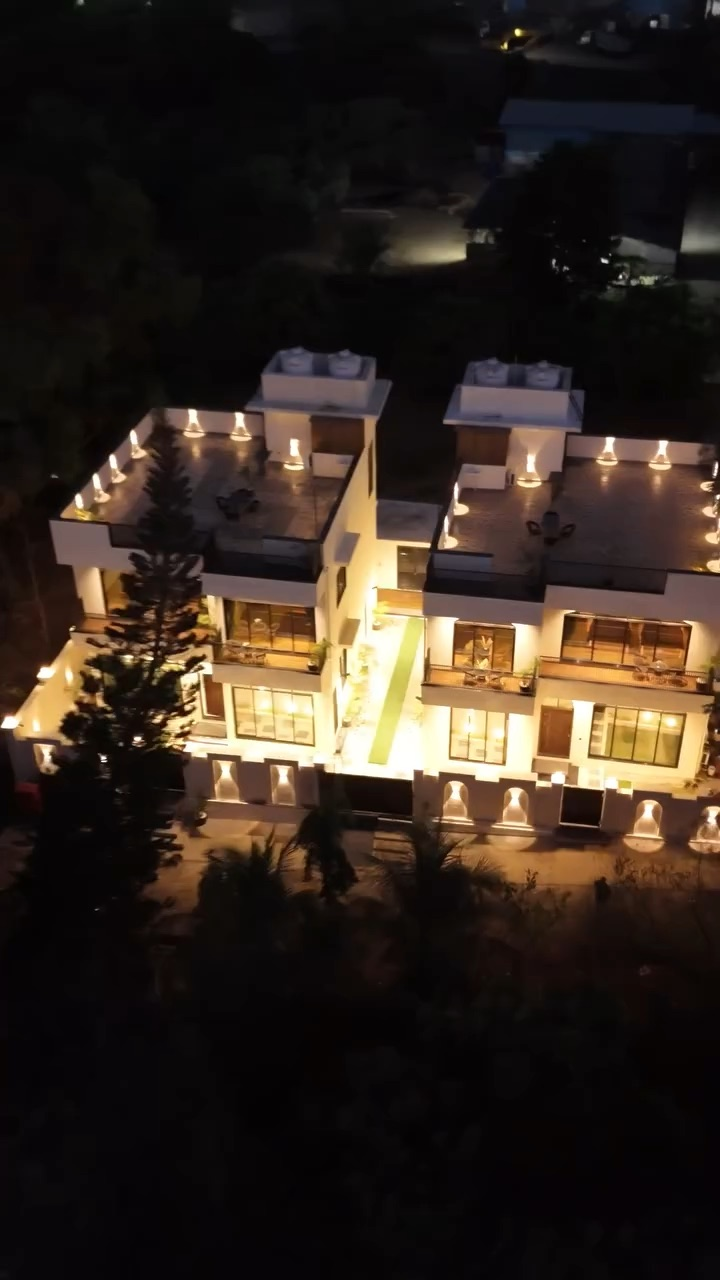
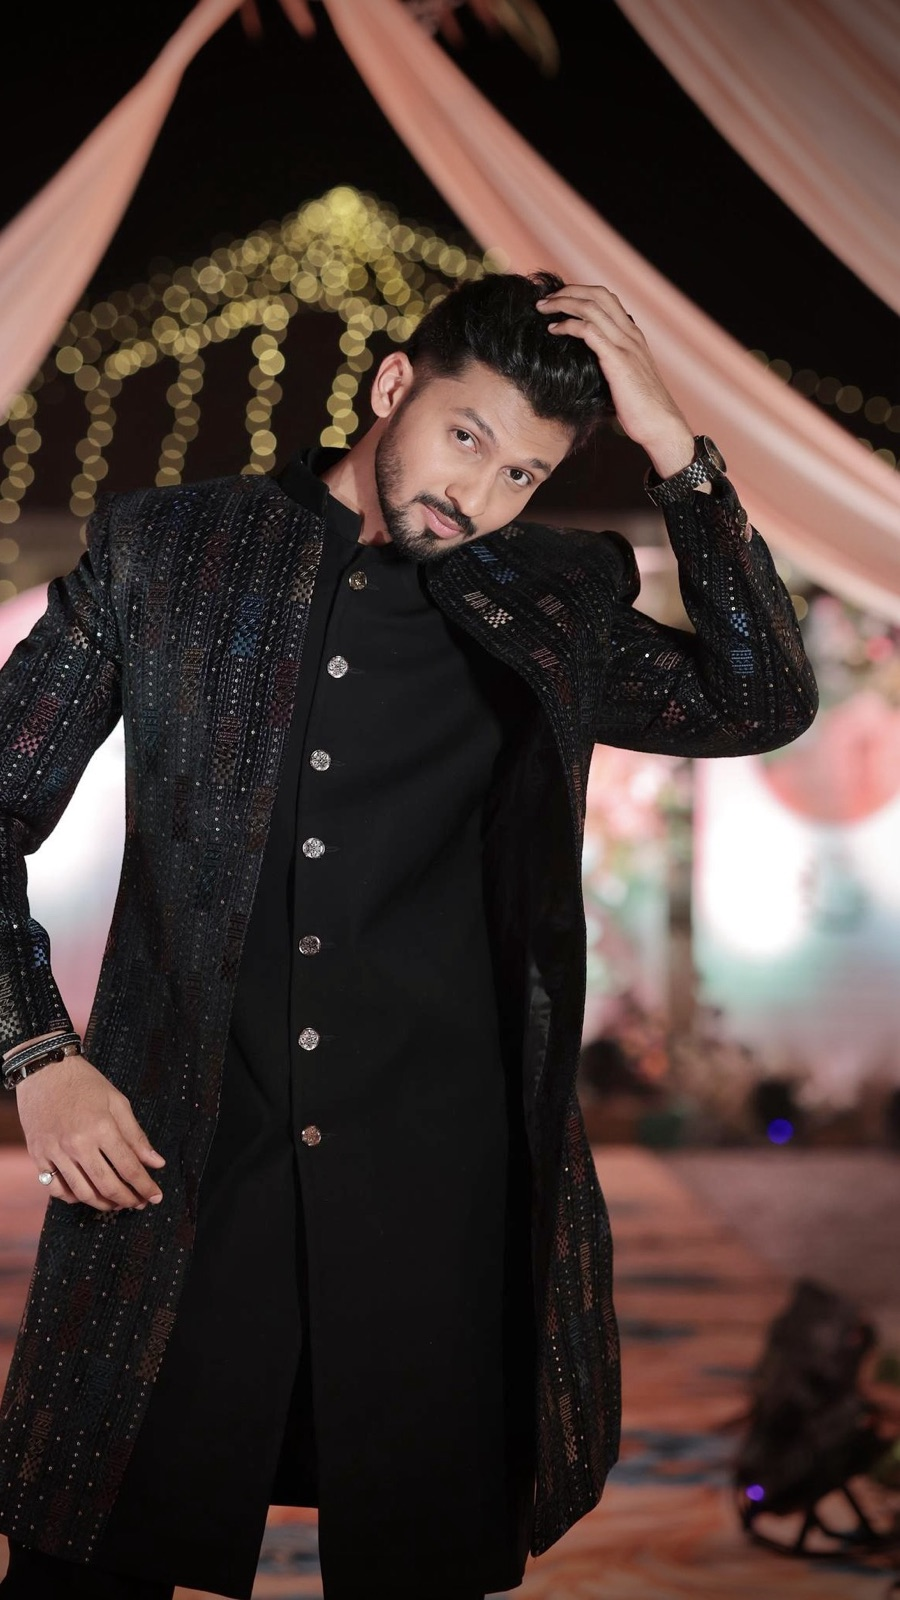
done with changes

diff --git a/src/app/about-us/FounderVideo.tsx b/src/app/about-us/FounderVideo.tsx
@@ -1,21 +1,44 @@
 'use client';
 
-import { useRef, useState } from 'react';
+import { useEffect, useRef, useState, type CSSProperties, type KeyboardEvent } from 'react';
 import styles from './page.module.css';
 
 type Props = { src: string; poster: string; label: string };
+
+const SKIP_SECONDS = 10;
 
 const PlayIcon = () => <svg viewBox="0 0 24 24" aria-hidden="true"><path d="M8 5.5v13l10.5-6.5z" /></svg>;
 const PauseIcon = () => <svg viewBox="0 0 24 24" aria-hidden="true"><path d="M8 5v14M16 5v14" /></svg>;
 const MutedIcon = () => <svg viewBox="0 0 24 24" aria-hidden="true"><path d="M4 9h4l5-4v14l-5-4H4z" /><path d="m17 9 4 6m0-6-4 6" /></svg>;
 const SoundIcon = () => <svg viewBox="0 0 24 24" aria-hidden="true"><path d="M4 9h4l5-4v14l-5-4H4z" /><path d="M17 8.5a5 5 0 0 1 0 7M19.5 6a8.5 8.5 0 0 1 0 12" /></svg>;
+const BackIcon = () => <svg viewBox="0 0 24 24" aria-hidden="true"><path d="M4 12a8 8 0 1 0 2.5-5.8" /><path d="M4 4v4.5h4.5" /><text x="12" y="15.5" textAnchor="middle">10</text></svg>;
+const ForwardIcon = () => <svg viewBox="0 0 24 24" aria-hidden="true"><path d="M20 12a8 8 0 1 1-2.5-5.8" /><path d="M20 4v4.5h-4.5" /><text x="12" y="15.5" textAnchor="middle">10</text></svg>;
+const FullscreenIcon = () => <svg viewBox="0 0 24 24" aria-hidden="true"><path d="M4 9V4h5M15 4h5v5M20 15v5h-5M9 20H4v-5" /></svg>;
 
-/** Founder film inside the arch: shows a thumbnail until the visitor presses play. */
+function formatTime(seconds: number) {
+  if (!Number.isFinite(seconds) || seconds < 0) return '0:00';
+  const s = Math.floor(seconds);
+  return `${Math.floor(s / 60)}:${String(s % 60).padStart(2, '0')}`;
+}
+
+/** Founder film inside the arch: shows a thumbnail until the visitor presses play, then a full control bar with a scrubbable timeline. */
 export function FounderVideo({ src, poster, label }: Props) {
   const video = useRef<HTMLVideoElement>(null);
   const [started, setStarted] = useState(false);
   const [playing, setPlaying] = useState(false);
   const [muted, setMuted] = useState(false);
+  const [current, setCurrent] = useState(0);
+  const [duration, setDuration] = useState(0);
+  const [buffered, setBuffered] = useState(0);
+
+  // timeupdate fires only ~4x a second; follow the playhead every frame while playing so the timeline moves smoothly.
+  useEffect(() => {
+    if (!playing) return;
+    let frame = 0;
+    const tick = () => { const el = video.current; if (el) setCurrent(el.currentTime); frame = requestAnimationFrame(tick); };
+    frame = requestAnimationFrame(tick);
+    return () => cancelAnimationFrame(frame);
+  }, [playing]);
 
   const togglePlay = () => {
     const el = video.current;
@@ -24,6 +47,17 @@ export function FounderVideo({ src, poster, label }: Props) {
     if (el.paused) void el.play(); else el.pause();
   };
 
+  const seekTo = (time: number) => {
+    const el = video.current;
+    if (!el) return;
+    const end = Number.isFinite(el.duration) ? el.duration : duration;
+    const next = Math.min(Math.max(time, 0), end || 0);
+    el.currentTime = next;
+    setCurrent(next);
+  };
+
+  const skip = (delta: number) => seekTo((video.current?.currentTime ?? 0) + delta);
+
   const toggleSound = () => {
     const el = video.current;
     if (!el) return;
@@ -31,25 +65,74 @@ export function FounderVideo({ src, poster, label }: Props) {
     setMuted(el.muted);
   };
 
-  return <>
+  const enterFullscreen = () => {
+    const el = video.current as (HTMLVideoElement & { webkitEnterFullscreen?: () => void }) | null;
+    if (!el) return;
+    if (el.requestFullscreen) void el.requestFullscreen().catch(() => {});
+    else el.webkitEnterFullscreen?.(); // iPhone Safari only supports fullscreen on the video element this way.
+  };
+
+  const updateBuffered = () => {
+    const el = video.current;
+    if (el && el.buffered.length) setBuffered(el.buffered.end(el.buffered.length - 1));
+  };
+
+  // Keyboard shortcuts while the player has focus: space/k play, ←/→ skip 5s, j/l skip 10s, m mute, f fullscreen.
+  const onKeyDown = (event: KeyboardEvent<HTMLDivElement>) => {
+    if (!started || event.target instanceof HTMLInputElement) return;
+    const actions: Record<string, () => void> = {
+      ' ': togglePlay, k: togglePlay, m: toggleSound, f: enterFullscreen,
+      ArrowLeft: () => skip(-5), ArrowRight: () => skip(5), j: () => skip(-SKIP_SECONDS), l: () => skip(SKIP_SECONDS),
+    };
+    const action = actions[event.key];
+    if (action) { event.preventDefault(); action(); }
+  };
+
+  const total = duration || 0;
+  const progressStyle = {
+    '--progress': `${total ? (current / total) * 100 : 0}%`,
+    '--buffered': `${total ? (buffered / total) * 100 : 0}%`,
+  } as CSSProperties;
+
+  return <div className={styles.founderPlayer} onKeyDown={onKeyDown}>
     <video ref={video} className={styles.founderVideo} src={src} poster={poster}
       playsInline preload="none" aria-label={label}
-      onPlay={() => setPlaying(true)} onPause={() => setPlaying(false)} onClick={togglePlay} />
+      onPlay={() => setPlaying(true)} onPause={() => setPlaying(false)} onEnded={() => setPlaying(false)}
+      onLoadedMetadata={event => setDuration(event.currentTarget.duration)}
+      onDurationChange={event => setDuration(event.currentTarget.duration)}
+      onTimeUpdate={event => setCurrent(event.currentTarget.currentTime)}
+      onProgress={updateBuffered}
+      onClick={togglePlay} />
 
     {!started && <button type="button" className={styles.founderPlay} onClick={togglePlay} aria-label="Play founder video">
       <span className={styles.founderPlayIcon}><PlayIcon /></span>
-      <span className={styles.founderPlayLabel}>Watch the story</span>
     </button>}
 
     {started && <div className={styles.founderControls}>
-      <button type="button" className={styles.founderControl} onClick={togglePlay}
-        aria-label={playing ? 'Pause founder video' : 'Play founder video'}>
-        {playing ? <PauseIcon /> : <PlayIcon />}
-      </button>
-      <button type="button" className={styles.founderControl} onClick={toggleSound}
-        aria-label={muted ? 'Unmute founder video' : 'Mute founder video'}>
-        {muted ? <MutedIcon /> : <SoundIcon />}
-      </button>
+      <div className={styles.founderTimeline}>
+        <span className={styles.founderTime}>{formatTime(current)}</span>
+        <input type="range" className={styles.founderSeek} style={progressStyle}
+          min={0} max={total || 0} step={0.1} value={Math.min(current, total || 0)}
+          disabled={!total}
+          onChange={event => seekTo(Number(event.currentTarget.value))}
+          aria-label="Seek founder video" aria-valuetext={`${formatTime(current)} of ${formatTime(total)}`} />
+        <span className={styles.founderTime}>{formatTime(total)}</span>
+      </div>
+      <div className={styles.founderButtons}>
+        <button type="button" className={styles.founderControl} onClick={toggleSound}
+          aria-label={muted ? 'Unmute founder video' : 'Mute founder video'}>
+          {muted ? <MutedIcon /> : <SoundIcon />}
+        </button>
+        <div className={styles.founderTransport}>
+          <button type="button" className={styles.founderControl} onClick={() => skip(-SKIP_SECONDS)} aria-label="Back 10 seconds"><BackIcon /></button>
+          <button type="button" className={`${styles.founderControl} ${styles.founderControlMain}`} onClick={togglePlay}
+            aria-label={playing ? 'Pause founder video' : 'Play founder video'}>
+            {playing ? <PauseIcon /> : <PlayIcon />}
+          </button>
+          <button type="button" className={styles.founderControl} onClick={() => skip(SKIP_SECONDS)} aria-label="Forward 10 seconds"><ForwardIcon /></button>
+        </div>
+        <button type="button" className={styles.founderControl} onClick={enterFullscreen} aria-label="Watch founder video full screen"><FullscreenIcon /></button>
+      </div>
     </div>}
-  </>;
+  </div>;
 }

diff --git a/src/app/about-us/page.module.css b/src/app/about-us/page.module.css
@@ -68,14 +68,33 @@
 .founderPlayIcon svg { width: 26px; height: 26px; margin-left: 3px; fill: currentColor; }
 .founderPlay:hover .founderPlayIcon { transform: scale(1.06); background: rgba(var(--forest-rgb), .7); }
 .founderPlay:focus-visible { outline: 2px solid var(--sand); outline-offset: -6px; }
-.founderPlayLabel { font-size: 12px; font-weight: 500; letter-spacing: .18em; text-transform: uppercase; }
-.founderControls { position: absolute; left: 50%; bottom: 18px; display: flex; gap: 6px; padding: 6px; border: 1px solid rgba(var(--ivory-rgb), .35); border-radius: 999px; background: rgba(var(--forest-rgb), .55); backdrop-filter: blur(8px); transform: translateX(-50%); }
+.founderPlayer { position: absolute; inset: 0; }
+/* Control panel: timeline on top, buttons below, frosted forest glass across the foot of the arch. */
+.founderControls { position: absolute; left: 12px; right: 12px; bottom: 12px; display: flex; flex-direction: column; gap: 4px; padding: 10px 12px 6px; border: 1px solid rgba(var(--ivory-rgb), .3); border-radius: 18px; background: rgba(var(--forest-rgb), .6); backdrop-filter: blur(10px); color: var(--ivory); }
+.founderTimeline { display: flex; align-items: center; gap: 10px; }
+.founderTime { flex: none; min-width: 34px; font-size: 12px; font-variant-numeric: tabular-nums; letter-spacing: .02em; text-align: center; opacity: .9; }
+/* Scrubber: played part in sand, buffered part faint ivory, the rest a quiet track. */
+.founderSeek { flex: 1; min-width: 0; height: 24px; margin: 0; background: transparent; appearance: none; -webkit-appearance: none; cursor: pointer; }
+.founderSeek:disabled { cursor: default; opacity: .5; }
+.founderSeek::-webkit-slider-runnable-track { height: 4px; border-radius: 999px; background: linear-gradient(90deg, var(--sand) var(--progress), rgba(var(--ivory-rgb), .4) var(--progress) var(--buffered), rgba(var(--ivory-rgb), .18) var(--buffered)); }
+.founderSeek::-moz-range-track { height: 4px; border-radius: 999px; background: linear-gradient(90deg, var(--sand) var(--progress), rgba(var(--ivory-rgb), .4) var(--progress) var(--buffered), rgba(var(--ivory-rgb), .18) var(--buffered)); }
+.founderSeek::-webkit-slider-thumb { width: 14px; height: 14px; margin-top: -5px; border: 0; border-radius: 50%; background: var(--ivory); box-shadow: 0 1px 6px rgba(0, 0, 0, .35); -webkit-appearance: none; transition: transform .2s; }
+.founderSeek::-moz-range-thumb { width: 14px; height: 14px; border: 0; border-radius: 50%; background: var(--ivory); box-shadow: 0 1px 6px rgba(0, 0, 0, .35); }
+.founderSeek:hover::-webkit-slider-thumb, .founderSeek:active::-webkit-slider-thumb { transform: scale(1.25); }
+.founderSeek:focus-visible { outline: 2px solid var(--sand); outline-offset: 2px; border-radius: 999px; }
+/* Mute on the left, back / play / forward in the middle, fullscreen on the right. */
+.founderButtons { display: grid; grid-template-columns: 1fr auto 1fr; align-items: center; }
+.founderTransport { display: flex; align-items: center; gap: 6px; }
+.founderButtons > :first-child { justify-self: start; }
+.founderButtons > :last-child { justify-self: end; }
 .founderControl { display: grid; place-items: center; width: 40px; height: 40px; border: 0; border-radius: 50%; background: transparent; color: var(--ivory); cursor: pointer; transition: background .3s, color .3s; }
 .founderControl:hover { background: rgba(var(--ivory-rgb), .16); color: var(--sand); }
 .founderControl:focus-visible { outline: 2px solid var(--sand); outline-offset: 2px; }
 .founderControl svg { width: 18px; height: 18px; fill: none; stroke: currentColor; stroke-width: 1.6; stroke-linecap: round; stroke-linejoin: round; }
 .founderControl svg path:only-child { fill: currentColor; }
-.founderCopy h2 { margin-top: 16px; font-size: clamp(48px, 5vw, 80px); line-height: 1; letter-spacing: -.035em; }
+.founderControl svg text { fill: currentColor; stroke: none; font: 600 7px/1 var(--font-sans), sans-serif; }
+.founderControlMain { width: 46px; height: 46px; background: rgba(var(--ivory-rgb), .14); }
+.founderControlMain svg { width: 20px; height: 20px; }.founderCopy h2 { margin-top: 16px; font-size: clamp(48px, 5vw, 80px); line-height: 1; letter-spacing: -.035em; }
 .credentials { display: flex; flex-wrap: wrap; gap: 8px; margin: 24px 0 8px; padding: 0; list-style: none; }
 .credentials li { flex: none; white-space: nowrap; padding: 8px 14px; border: 1px solid rgba(var(--forest-rgb), .28); border-radius: 999px; background: rgba(var(--forest-rgb), .06); color: var(--forest); font-size: 12px; font-weight: 500; letter-spacing: .06em; line-height: 1.2; text-transform: uppercase; }
 .cta { display: inline-flex; align-items: center; gap: 28px; min-height: 52px; margin-top: 36px; padding: 14px 24px; background: var(--forest); color: var(--ivory); font-size: 14px; font-weight: 500; letter-spacing: .08em; text-transform: uppercase; transition: background .3s; }
@@ -129,6 +148,4 @@
   .regions li:not(:last-child)::after { content: '·'; margin: 0 9px; color: var(--sage); }
   /* Credential chips were 10px; lift them to a readable size. */
   .credentials li { font-size: 11px; }
-  /* "Watch the story" sits over a bright frame; give it a soft shadow so it reads. */
-  .founderPlayLabel { text-shadow: 0 1px 10px rgba(0, 0, 0, .75); }
 }

diff --git a/src/lib/experience.ts b/src/lib/experience.ts
@@ -20,7 +20,7 @@ export const experience = {
     values: [
       { title: 'A warm welcome', description: 'Helping you find your feet, settle in and start enjoying your time away.', photo: { src: '/experience/team-welcome.webp', alt: 'Guests arriving at the villa door with their bags' } },
       { title: 'Care in the details', description: 'The rooms, the little comforts, the spaces you share. Thoughtful preparation makes a difference.', photo: { src: '/experience/team-details-tray.webp', alt: 'The LIT Stays welcome kit of towels, toiletries and slippers laid out on a tray' } },
-      { title: 'A personal touch', description: 'A familiar face and a helping hand, so your stay feels a little more like home.', photo: { src: '/experience/team-personal-sharing.webp', alt: 'A host serving food to friends gathered around the dining table' } },
+      { title: 'A personal touch', description: 'A familiar face and a helping hand, so your stay feels a little more like home.', photo: { src: '/experience/team-personal-coffee.webp', alt: 'A guest smiling over a cup of coffee in a warm chat on the balcony' } },
     ],
   },
 };
